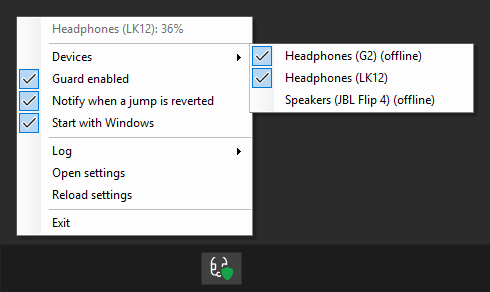
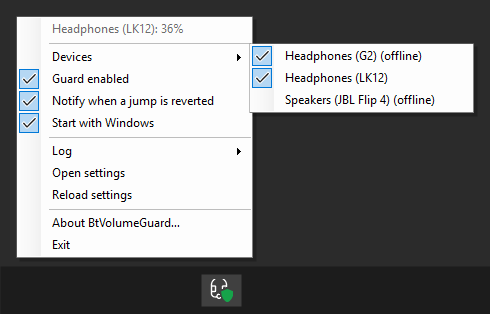
Add "About BtVolumeGuard…" to the tray menu
A small window with the name, version, description, copyright and MIT
license, and a clickable link to the repository. The version comes from the
assembly's informational version (the tag in CI, <Version> locally); the
commit hash the SDK appends is shown shortened on its own line (Core
AppVersion, with tests). The tray tooltip now starts with the version.
Screenshots redrawn.

Changed region(s): [[0.0306, 0.0308, 0.9796, 0.8322], [0.398, 0.863, 0.4898, 0.9555], [0.4592, 0.1849, 0.4898, 0.2158]]

diff --git a/src/BtVolumeGuard/AboutForm.cs b/src/BtVolumeGuard/AboutForm.cs
@@ -1,0 +1,68 @@
+using System.Diagnostics;
+using System.Reflection;
+
+using BtVolumeGuard.Core;
+
+namespace BtVolumeGuard;
+
+/// <summary>"About BtVolumeGuard": name, version, author, license and a link to the repository.</summary>
+internal sealed class AboutForm : Form
+{
+    public const string RepositoryUrl = "https://github.com/askrinnik/BtVolumeGuard";
+
+    public AboutForm()
+    {
+        Assembly assembly = typeof(AboutForm).Assembly;
+        AppVersion version = Current;
+        string copyright = assembly.GetCustomAttribute<AssemblyCopyrightAttribute>()?.Copyright ?? "";
+        string description = assembly.GetCustomAttribute<AssemblyDescriptionAttribute>()?.Description ?? "";
+
+        Text = "About BtVolumeGuard";
+        FormBorderStyle = FormBorderStyle.FixedDialog;
+        MaximizeBox = false;
+        MinimizeBox = false;
+        ShowInTaskbar = true;
+        StartPosition = FormStartPosition.CenterScreen;
+        AutoSize = true;
+        AutoSizeMode = AutoSizeMode.GrowAndShrink;
+        AutoScaleMode = AutoScaleMode.Dpi;
+        Icon = Icon.ExtractAssociatedIcon(Environment.ProcessPath!);
+
+        var link = new LinkLabel { Text = RepositoryUrl, AutoSize = true, Margin = new Padding(0, 8, 0, 0) };
+        link.LinkClicked += (_, _) => Process.Start(new ProcessStartInfo(RepositoryUrl) { UseShellExecute = true });
+        var ok = new Button { Text = "OK", Anchor = AnchorStyles.Right, Margin = new Padding(0, 12, 0, 0) };
+        ok.Click += (_, _) => Close();
+        AcceptButton = ok;
+        CancelButton = ok;
+
+        var layout = new TableLayoutPanel
+        {
+            AutoSize = true,
+            AutoSizeMode = AutoSizeMode.GrowAndShrink,
+            ColumnCount = 1,
+            Padding = new Padding(16),
+        };
+        layout.Controls.Add(new Label
+        {
+            Text = "BtVolumeGuard",
+            AutoSize = true,
+            Font = new Font(Font.FontFamily, Font.Size * 1.5f, FontStyle.Bold),
+            Margin = Padding.Empty,
+        });
+        layout.Controls.Add(new Label { Text = $"Version {version.Version}", AutoSize = true, Margin = new Padding(0, 4, 0, 0) });
+        if (version.Commit is { } commit)
+        {
+            layout.Controls.Add(new Label { Text = $"Commit {commit}", AutoSize = true, ForeColor = SystemColors.GrayText, Margin = Padding.Empty });
+        }
+
+        layout.Controls.Add(new Label { Text = description, AutoSize = true, Margin = new Padding(0, 8, 0, 0) });
+        layout.Controls.Add(new Label { Text = copyright, AutoSize = true, Margin = new Padding(0, 8, 0, 0) });
+        layout.Controls.Add(link);
+        layout.Controls.Add(ok);
+        Controls.Add(layout);
+    }
+
+    /// <summary>This build's version (in CI the release tag, locally the project's <c>Version</c>).</summary>
+    public static AppVersion Current { get; } = AppVersion.Parse(
+        typeof(AboutForm).Assembly.GetCustomAttribute<AssemblyInformationalVersionAttribute>()?.InformationalVersion);
+}

diff --git a/src/BtVolumeGuard/TrayApplicationContext.cs b/src/BtVolumeGuard/TrayApplicationContext.cs
@@ -37,6 +37,7 @@ internal sealed class TrayApplicationContext : ApplicationContext
     private bool _settingsFileUsable;
     private DeviceNameMask? _testMask;
     private EndpointVolumeGuard? _guard;
+    private AboutForm? _aboutForm;
     private bool _exiting;
 
     /// <param name="maskOverride">Device mask from the command line; overrides the settings file.</param>
@@ -77,6 +78,7 @@ internal sealed class TrayApplicationContext : ApplicationContext
             new ToolStripMenuItem("Open settings", null, (_, _) => OpenFile(AppSettings.DefaultPath)),
             new ToolStripMenuItem("Reload settings", null, (_, _) => StartGuard()),
             new ToolStripSeparator(),
+            new ToolStripMenuItem("About BtVolumeGuard…", null, (_, _) => ShowAbout()),
             new ToolStripMenuItem("Exit", null, (_, _) => ExitThread()),
         ]);
         menu.Opening += (_, _) => UpdateMenu();
@@ -94,6 +96,7 @@ internal sealed class TrayApplicationContext : ApplicationContext
     protected override void ExitThreadCore()
     {
         _exiting = true;
+        _aboutForm?.Close();
         SystemEvents.UserPreferenceChanged -= OnUserPreferenceChanged;
         StopGuard();
         _trayIcon.Visible = false;
@@ -259,6 +262,23 @@ internal sealed class TrayApplicationContext : ApplicationContext
         _guard.SetSelection(selection);
     }
 
+    // Modeless, one window at a time: a second click brings the open one to the front.
+    private void ShowAbout()
+    {
+        if (_aboutForm is null)
+        {
+            _aboutForm = new AboutForm();
+            _aboutForm.FormClosed += (sender, _) =>
+            {
+                ((Form)sender!).Dispose();
+                _aboutForm = null;
+            };
+            _aboutForm.Show();
+        }
+
+        _aboutForm.Activate();
+    }
+
     private void UpdateLogMenu()
     {
         foreach (ToolStripMenuItem item in _logLevelItems)
@@ -278,7 +298,7 @@ internal sealed class TrayApplicationContext : ApplicationContext
             return;
         }
 
-        string text = $"BtVolumeGuard: {(_settings.GuardEnabled ? "on" : "off")}\n{DescribeEndpoints("\n")}";
+        string text = $"BtVolumeGuard {AboutForm.Current.Version}: {(_settings.GuardEnabled ? "on" : "off")}\n{DescribeEndpoints("\n")}";
         _trayIcon.Text = text.Length <= MaxTooltipLength ? text : text[..(MaxTooltipLength - 1)] + "…";
     }
 

diff --git a/src/BtVolumeGuard.Core/AppVersion.cs b/src/BtVolumeGuard.Core/AppVersion.cs
@@ -1,0 +1,21 @@
+namespace BtVolumeGuard.Core;
+
+/// <summary>
+/// The app version for display, parsed from the assembly's informational version
+/// (<c>0.2.1+&lt;commit hash&gt;</c>: the SDK appends the full source commit hash).
+/// </summary>
+public sealed record AppVersion(string Version, string? Commit)
+{
+    public const int ShortCommitLength = 7;
+
+    public static AppVersion Parse(string? informationalVersion)
+    {
+        string text = informationalVersion?.Trim() ?? "";
+        int plus = text.IndexOf('+');
+        string version = plus >= 0 ? text[..plus] : text;
+        string metadata = plus >= 0 ? text[(plus + 1)..] : "";
+        return new AppVersion(
+            version.Length > 0 ? version : "unknown",
+            metadata.Length > 0 ? metadata[..Math.Min(ShortCommitLength, metadata.Length)] : null);
+    }
+}

diff --git a/src/BtVolumeGuard.Core.Tests/AppVersionTests.cs b/src/BtVolumeGuard.Core.Tests/AppVersionTests.cs
@@ -1,0 +1,18 @@
+using BtVolumeGuard.Core;
+
+namespace BtVolumeGuard.Core.Tests;
+
+public class AppVersionTests
+{
+    [Theory]
+    [InlineData("0.2.1+96eec58a1b2c3d4e5f60718293a4b5c6d7e8f901", "0.2.1", "96eec58")]
+    [InlineData("0.2.1+abc", "0.2.1", "abc")]
+    [InlineData("0.2.1", "0.2.1", null)]
+    [InlineData("0.2.1+", "0.2.1", null)]
+    [InlineData(" 1.0.0-beta+1234567890 ", "1.0.0-beta", "1234567")]
+    [InlineData("", "unknown", null)]
+    [InlineData(null, "unknown", null)]
+    public void Informational_version_is_split_into_version_and_short_commit(
+        string? informational, string version, string? commit) =>
+        Assert.Equal(new AppVersion(version, commit), AppVersion.Parse(informational));
+}

diff --git a/docs/design.md b/docs/design.md
@@ -84,7 +84,7 @@ The safety poll reports a volume that differs from the last notification only wh
 2. **Verify on a real Teams call** and resolve the open question above. *Done* 2026-10-12: the jump has its own event context (see above); a few follow-up checks remain.
 3. **Guard:** wire the decision logic into the event flow, revert jumps, remember volumes. *Done* (`EndpointGuard`, `Audio/EndpointVolumeGuard`); remembered volumes are in memory only. Verified on two real Teams calls (2026-10-12): the push to 100% came 500 and 639 ms after the profile switch and was reverted to the call volume (50%, then 68% set in the previous call) within about 50 ms; user changes during and after the calls were left alone. Contexts were the same as in the earlier sessions (same boot).
 4. **Settings and state** next to the executable (JSON): device mask, thresholds, default volume, remembered volumes per endpoint ID. Log file in the same folder. *Done:* `BtVolumeGuard.settings.json` (`AppSettings`; read at startup, created with defaults if missing, comments allowed) and `BtVolumeGuard.state.json` (`VolumeMemory`; saved on every change of a remembered volume). Changing settings requires a restart.
-5. **Tray menu:** enable/disable guard, current headset volume, default volume, open log, "Start with Windows" (`HKCU\Software\Microsoft\Windows\CurrentVersion\Run`), Exit. Optional balloon notification on revert. Proper icon. *Done:* menu with the current volume of watched endpoints, "Guard enabled", "Notify when a jump is reverted" (both saved to the settings file), "Start with Windows", "Log" (submenu: level Off / Normal / Verbose, "Open log", "Clear log"), "Open settings", "Reload settings", "Exit". A left click on the icon opens the menu too. The default volume is edited in the settings file. Tray icon: headset glyph with a shield, drawn at runtime (`TrayIconRenderer`), white or black to match the taskbar theme, green shield when the guard is on, grey when off; the tooltip shows the state and volumes. Saving from the menu rewrites the settings file, so comments in it are lost.
+5. **Tray menu:** enable/disable guard, current headset volume, default volume, open log, "Start with Windows" (`HKCU\Software\Microsoft\Windows\CurrentVersion\Run`), Exit. Optional balloon notification on revert. Proper icon. *Done:* menu with the current volume of watched endpoints, "Guard enabled", "Notify when a jump is reverted" (both saved to the settings file), "Start with Windows", "Log" (submenu: level Off / Normal / Verbose, "Open log", "Clear log"), "Open settings", "Reload settings", "About BtVolumeGuard…" (version from the assembly's informational version, short commit hash, author, license, link to the repository), "Exit". A left click on the icon opens the menu too. The default volume is edited in the settings file. Tray icon: headset glyph with a shield, drawn at runtime (`TrayIconRenderer`), white or black to match the taskbar theme, green shield when the guard is on, grey when off; the tooltip shows the version, the state and volumes. Saving from the menu rewrites the settings file, so comments in it are lost.
 6. **Publish:** framework-dependent `win-x64`, copied to any user-writable folder (not `Program Files`, not `%LOCALAPPDATA%`). Settings, state and log stay next to the executable, so the folder must be writable. *Done:* `tools/publish.ps1` builds a single-file exe (~1.5 MB, needs the .NET 10 Desktop Runtime) and with `-InstallDir` installs or updates it (refuses Program Files, stops a running copy, restarts it if it ran from that folder, keeps settings/state/log). Exe icon `BtVolumeGuard.ico` (dark headset with a white outline, visible on light and dark backgrounds) generated by `tools/make-icon.ps1`. Verified by installing into a temporary folder, simulating a jump on a Realtek endpoint and reinstalling over the running copy.
 7. Retire the PowerShell prototype once the app is verified.
 8. **Any Bluetooth headset:** guard all Bluetooth playback devices by default, Devices submenu (not connected ones marked "(offline)"), event contexts in the settings, README for Bluetooth headsets in general with the LK12 as the verified example. *Done* (2026-10-12); device detection verified on the development machine (LK12, G2, JBL Flip 4, A2 found; Realtek, HDMI, USB not), the jump revert re-checked on a Realtek endpoint with `--mask`; not yet with a headset other than the LK12.

diff --git a/CLAUDE.md b/CLAUDE.md
@@ -30,7 +30,7 @@ Before running the tray app, make sure no earlier instance is running (single-in
   - `Logging/FileLog`: timestamped log, `BtVolumeGuard.log` next to the executable. Levels `Off`, `Normal` (start/stop, endpoints, reverted jumps, errors), `Verbose` (also every volume change with its event context); `LogLevel` in the settings, switchable from the tray menu.
   - `Settings/AppSettings`: `BtVolumeGuard.settings.json` next to the executable (created with defaults if missing; invalid file → defaults + log line). `ExcludedDevices`, event-context lists, thresholds, toggles; an old `DeviceMask` key is ignored.
   - `Settings/VolumeMemory`: `BtVolumeGuard.state.json`, last volume below maximum per endpoint ID.
-- `src/BtVolumeGuard`: WinExe tray shell: `Program`, `TrayApplicationContext` (menu, tooltip, notifications), `TrayIconRenderer` (icon drawn at runtime), `StartupRegistration` (HKCU Run value, changed only from the menu). `--mask "<pattern>"` is a test mode: guard endpoints of any kind (also non-Bluetooth) whose name matches, instead of the Bluetooth devices.
+- `src/BtVolumeGuard`: WinExe tray shell: `Program`, `TrayApplicationContext` (menu, tooltip, notifications), `TrayIconRenderer` (icon drawn at runtime), `AboutForm` (version via Core `AppVersion`), `StartupRegistration` (HKCU Run value, changed only from the menu). `--mask "<pattern>"` is a test mode: guard endpoints of any kind (also non-Bluetooth) whose name matches, instead of the Bluetooth devices.
 - `src/BtVolumeGuard.Core.Tests`: xUnit tests.
 - `.github/workflows/ci.yml`: on push/PR to `main` (windows-latest): build, test, format check, `publish.ps1`, exe as artifact. A tag `v<version>` also creates a GitHub Release with the exe (version taken from the tag). It cannot test Core Audio.
 - `tools/`: `publish.ps1` (framework-dependent single-file win-x64; `-Version` overrides the project version; with `-InstallDir` copies the exe, stopping and restarting a running copy), `make-icon.ps1` (draws the exe icon with `TrayIconRenderer`, style `DarkWithHalo`).

diff --git a/README.md b/README.md
@@ -48,12 +48,12 @@ BtVolumeGuard runs in the system tray and guards **every Bluetooth playback devi
 
 It reacts to Windows Core Audio notifications (via [NAudio](https://github.com/naudio/NAudio)) rather than polling, so the correction should be fast enough to go unnoticed. How the jump was analysed: [`docs/design.md`](docs/design.md).
 
-Everything is in the tray menu (left or right click on the icon): the current headset volume, the **Devices** to guard (every Bluetooth playback device Windows knows; ones that are not connected are marked "(offline)"), turning the guard and revert notifications on or off, starting with Windows, the log level, and the log and settings files. The shield in the icon turns grey while the guard is off.
+Everything is in the tray menu (left or right click on the icon): the current headset volume, the **Devices** to guard (every Bluetooth playback device Windows knows; ones that are not connected are marked "(offline)"), turning the guard and revert notifications on or off, starting with Windows, the log level, the log and settings files, and About (version and a link to this page). The shield in the icon turns grey while the guard is off.
 
 <p align="center">
   <picture>
     <source media="(prefers-color-scheme: dark)" srcset="docs/screenshots/tray-menu.png">
-    <img src="docs/screenshots/tray-menu-light.png" alt="Tray menu: Headphones (LK12): 36%, Devices submenu (Headphones (G2) and Headphones (LK12) guarded, G2 offline; Speakers (JBL Flip 4) not guarded, offline), Guard enabled, Notify when a jump is reverted, Start with Windows, Log, Open settings, Reload settings, Exit">
+    <img src="docs/screenshots/tray-menu-light.png" alt="Tray menu: Headphones (LK12): 36%, Devices submenu (Headphones (G2) and Headphones (LK12) guarded, G2 offline; Speakers (JBL Flip 4) not guarded, offline), Guard enabled, Notify when a jump is reverted, Start with Windows, Log, Open settings, Reload settings, About BtVolumeGuard…, Exit">
   </picture>
 </p>
 
